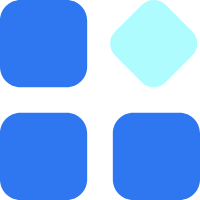
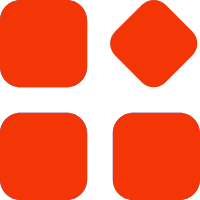
修改主题颜色，按钮位置

diff --git a/frontend/pages/home/home.js b/frontend/pages/home/home.js
@@ -66,7 +66,7 @@ Page({
           let scrollH = wh;
 
           this.setData({
-            scrollH: scrollH-100,
+            scrollH: scrollH-48,
             imgWidth: imgWidth
           });
           //加载首组图片
@@ -178,7 +178,7 @@ Page({
         col1: col1,
         col2: col2
       };
-
+console.log(data);
       //当前这组图片已加载完毕，则清空图片临时加载区域的内容
       if (!loadingCount) {
         data.images = [];
